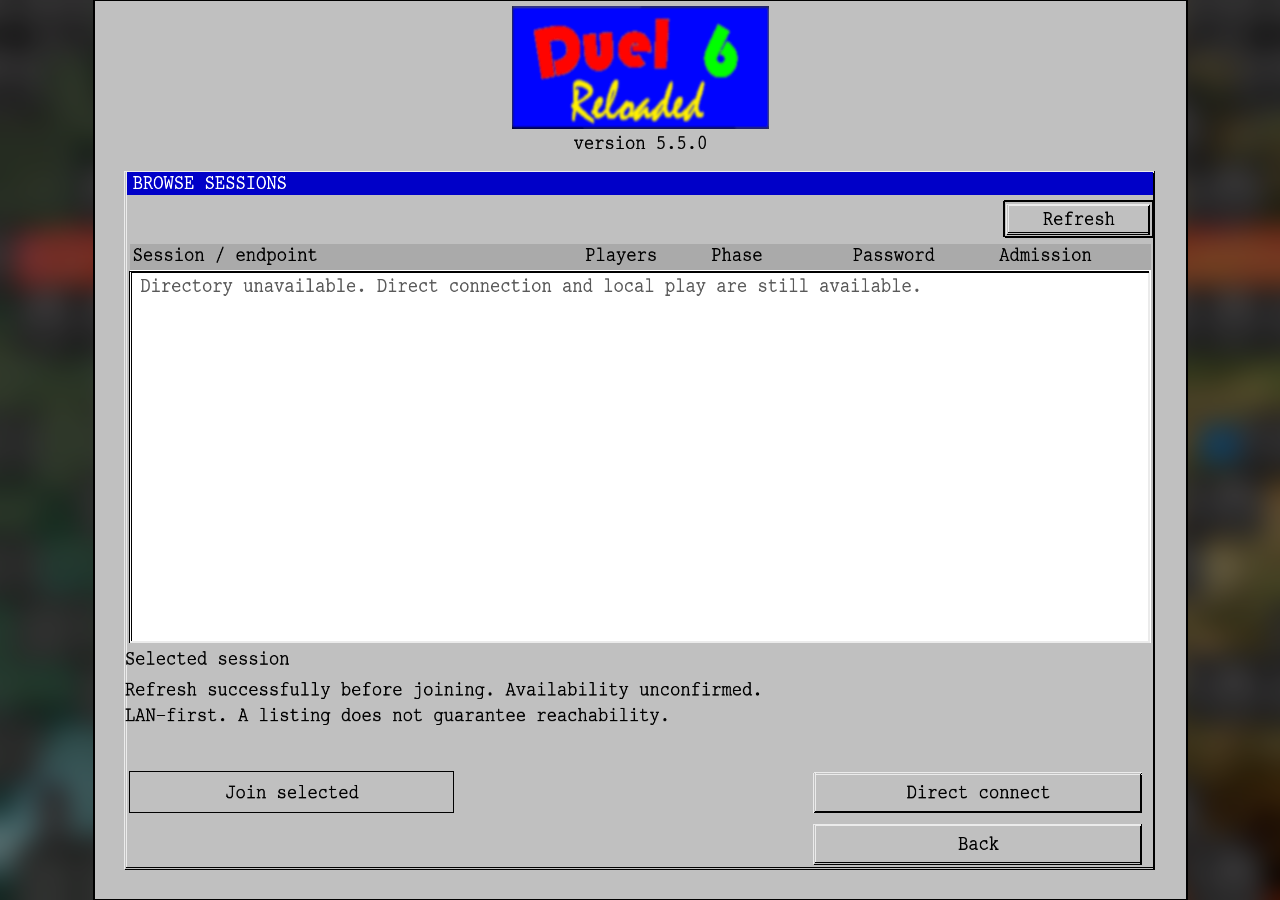
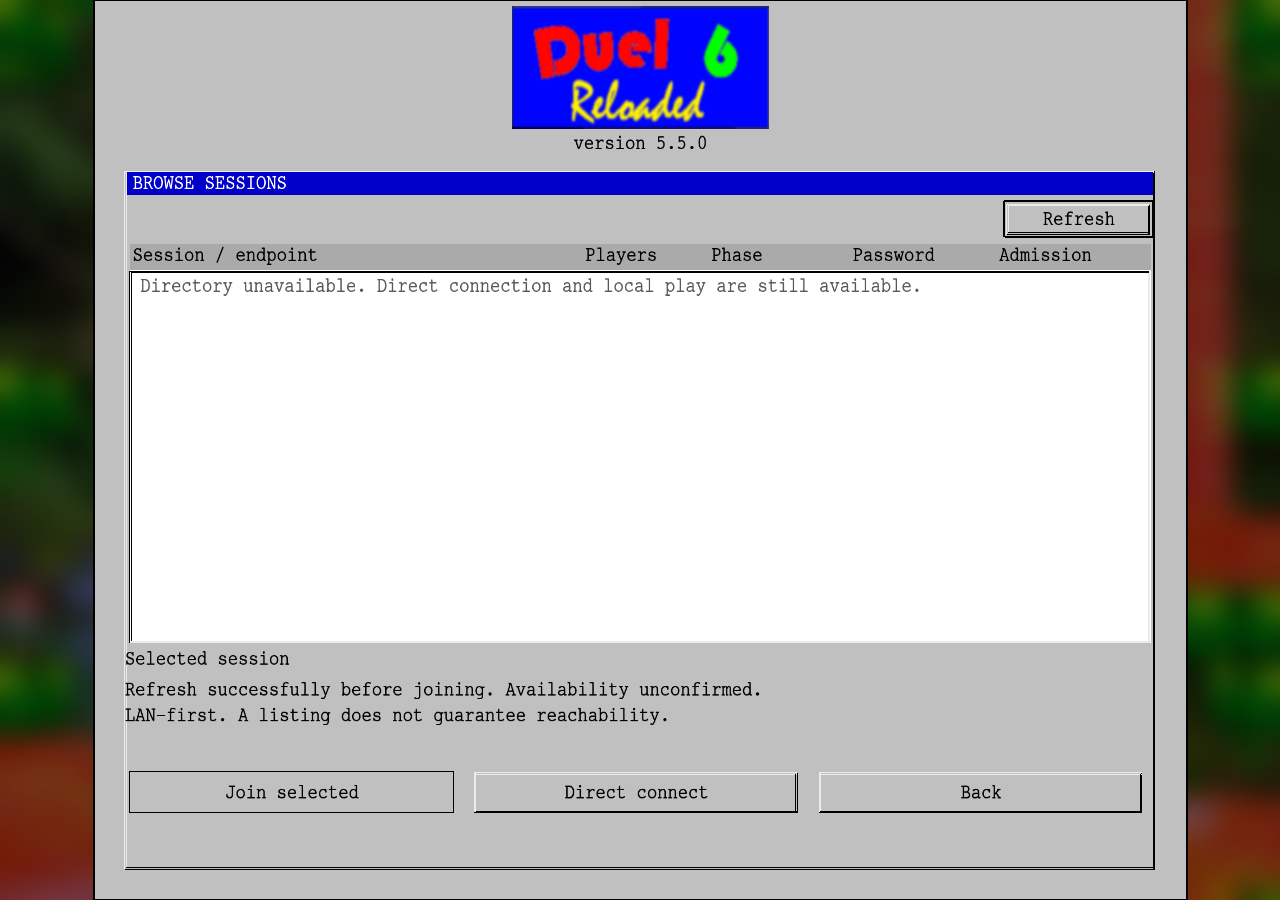
Capture single-row session browser footer evidence

diff --git a/docs/design/screenshots/README.md b/docs/design/screenshots/README.md
@@ -2,7 +2,7 @@
 
 ## NET-10 localized browser refinement
 
-The fixed NET-10, NET-10-E, and NET-10-U specifications require the single footer row defined by UX-NET-10-012, retaining the compact upper Refresh action and removal of the static no-selection instruction. **Visual gate: pending replacement captures and assessment for all three 1280 × 900 representatives.** Retained images and provenance below describe the prior two-row footer only and do not establish acceptance of the new footer. All other wireframes and capture requirements remain unchanged.
+The fixed NET-10, NET-10-E, and NET-10-U specifications require the single footer row defined by UX-NET-10-012, retaining the compact upper Refresh action and removal of the static no-selection instruction. **Visual gate: pending UX assessment of all three supplied 1280 × 900 replacement representatives.** Current images and provenance below retain frozen production identity `a9dca87bc5564215f70e8d5ec72a96d125c6a2fe` and fixed specification/wireframe identity `e1368f5fd86b4b7d683ac7cafebfb1abc8bac714`; developer capture does not establish UX acceptance. All other wireframes and capture requirements remain unchanged.
 
 Common profile: original full-client lossless PNG at 1280 × 900; GL4, Lua enabled, Xvfb, dummy audio, software OpenGL; existing 850 × 700 logical canvas. Native rendering only, no crop, retouching, synthetic listing substitution, or composed pixels. Product authority: [browser contract](../../screens/network-browser.md). UX authority: [NET-10](../screens/NET-10.md).
 
@@ -16,31 +16,31 @@ Focused routine checks cover first/middle/last multi-page navigation and single-
 
 ### Current NET-10 conformance
 
-**Current conformance: NET-10, NET-10-E, and NET-10-U pending replacement captures and assessment.** The retained source identities and image hashes below are developer-supplied and apply only to the prior artifacts, not new acceptance. Preserve their provenance until replacement.
+**Current conformance: NET-10, NET-10-E, and NET-10-U pending UX assessment.** The current source identities and image hashes below are developer-supplied and identify the replacement artifacts, not acceptance.
 
 | Representative | Approved UX assessment |
 |---|---|
-| `NET-10` | Pending: replacement evidence must show the UX-NET-10-012 footer with protected/Open selection and Started/Closed listings, unchanged upper Refresh and table/details, and hidden unnecessary paging. |
-| `NET-10-E` | Pending: replacement evidence must show the UX-NET-10-012 footer, focused upper Refresh, complete headings and noninteractive empty description, blank no-selection reason, disabled Join selected, and hidden unnecessary paging. |
-| `NET-10-U` | Pending: replacement evidence must show the UX-NET-10-012 footer, focused upper Refresh, complete headings and noninteractive error description, hidden cached rows/details, necessary unavailable explanation, disabled browser joins, and hidden unnecessary paging. |
+| `NET-10` | Supplied; pending UX assessment against UX-NET-10-012 and the results matrix row above. |
+| `NET-10-E` | Supplied; pending UX assessment against UX-NET-10-012 and the empty matrix row above. |
+| `NET-10-U` | Supplied; pending UX assessment against UX-NET-10-012 and the failed-refresh matrix row above. |
 
 Acceptance is limited to the supplied still-image states and Linux profile. Stills do not prove input behavior, multi-page navigation, recovery identity handling, age-stale behavior, controller operation, native macOS presentation, or other uncaptured states/platforms. Their existing owning functional, routine-test, and platform scopes remain unchanged.
 
-### Retained NET-10 artifact provenance
+### Current NET-10 capture provenance
 
[2 lines of base64/hex data omitted]
 
-Common profile: Linux x86_64 Release, GL4, Lua ON, Xvfb 1280 × 900 × 24, `SDL_AUDIODRIVER=dummy`, `LIBGL_ALWAYS_SOFTWARE=1`, unchanged 850 × 700 logical canvas, build/capture image `sha256:d15bdaf9fb852ec1b5e353e63453064562d6c6c9bbd8390e2c2ef7641c6060c4`. Each native browser window was verified at origin (0, 0), size 1280 × 900. ImageMagick `import -window root` captured the complete client without cropping, resizing, retouching, or composed pixels. Separate native client copies supplied only scenario-local people/save data and session setup; frozen resources and binaries were unchanged.
+Common profile: Linux x86_64 Release, GL4, Lua ON, Xvfb 1280 × 900 × 24, `SDL_AUDIODRIVER=dummy`, `LIBGL_ALWAYS_SOFTWARE=1`, unchanged 850 × 700 logical canvas, build/capture base image `sha256:d15bdaf9fb852ec1b5e353e63453064562d6c6c9bbd8390e2c2ef7641c6060c4`, checkpoint image `sha256:c2f9b8890b2a53f438b16c63f12f25d0a3a645b278edcb08f74b50ecc50adb2f`. Each native browser window was verified at origin (0, 0), size 1280 × 900. ImageMagick `import -window root` captured the complete client without cropping, resizing, retouching, or composed pixels. Separate native client copies supplied only scenario-local people/save data and session setup; frozen resources and binaries were unchanged.
 
[2 lines of base64/hex data omitted]
 
 | Canonical PNG | UTC capture start / Xvfb display | Actual state and focus | SHA-256 |
 |---|---|---|---|
[6 lines of base64/hex data omitted]
 
-Protected host provenance: listing `e86d1549e96f708e5d86ace6dc67e1d4`, session `00000000000000007501e6a8dcdad80f`, two host-local players, Deathmatch lobby, password required, Open admission. Closed host provenance: listing `296ae0edbb9a8982356dbae6d1da009b`, session `000000000000000004f5a082eea68fa5`, two host-local players and one real admitted guest, Deathmatch, naturally completed one-round match on Duel 10 / Normal, Started/Closed presentation. The disposable host password entered through native UI stdin, never process arguments or files. The same browser moved from the actual empty read to populated results and the failed-refresh state. The directory resumed immediately after U capture and returned HTTP 200 with both real listings present. Both native hosts then ended through normal confirmation; final health and listing reads returned HTTP 200 with zero listings. Capture/backend containers and the task network were removed after the last live consumer. Developer preserves the unchanged frozen archive and exact current PNGs through UX assessment and owns temporary artifact cleanup. Stills identify rendered state and focus; they do not independently prove input, live admission, timing, or cross-platform behavior.
+Protected host provenance: listing `61a638af251537423adbaf6989fde9c5`, session `0000000000000000adb1e3f16a36b250`, two host-local players, Deathmatch lobby, password required, Open admission. Closed host provenance: listing `534ab0af905995135d9feed2b8b84604`, session `00000000000000000c63f7efa8d09942`, two host-local players and one real admitted guest, Deathmatch, naturally completed one-round match on Duel 09 / Mirrored, Started/Closed presentation. The disposable host password entered through native UI stdin, never process arguments or files. The same browser moved from the actual empty read to populated results and the failed-refresh state. The directory resumed immediately after U capture and returned HTTP 200 with both real listings present. Both native hosts then ended through normal confirmation; final health and listing reads returned HTTP 200 with zero listings. Capture/backend containers and the task network were removed after the last live consumer. Developer preserves the unchanged frozen archive and exact current PNGs through UX assessment and owns temporary artifact cleanup. Stills identify rendered state and focus; they do not independently prove input, live admission, timing, or cross-platform behavior.
 
 ## Linked legacy network destinations — maintenance assessment
 
